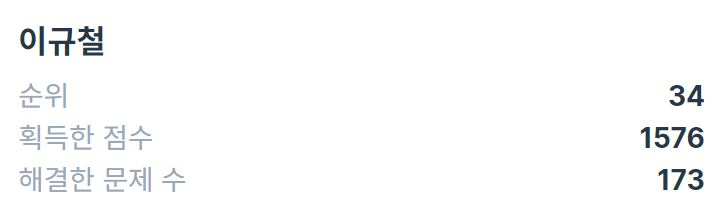
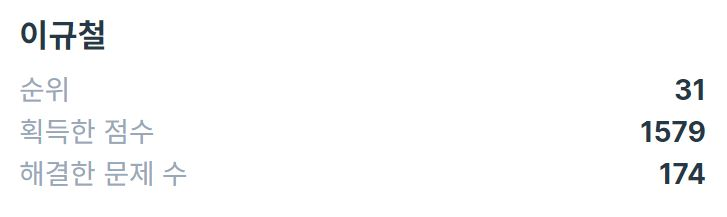
9/4 solve one dp problem

diff --git a/20_09_September/0904_12971_스티커모으기/Solution.py b/20_09_September/0904_12971_스티커모으기/Solution.py
@@ -1,0 +1,28 @@
+def solution(sticker):
+
+    if len(sticker) == 1:
+        return sticker[0]
+
+    dp1 = [0] * len(sticker)
+    dp2 = [0] * len(sticker)
+
+    dp1[0] = sticker[0]
+    dp1[1] = max(sticker[0], sticker[1])
+
+    dp2[1] = sticker[1]
+
+    for i in range(2, len(sticker) - 1):
+        dp1[i] = max(dp1[i - 1], dp1[i - 2] + sticker[i])
+
+    for i in range(2, len(sticker)):
+        dp2[i] = max(dp2[i - 1], dp2[i - 2] + sticker[i])
+
+    return max(dp1[-2], dp2[-1])
+
+print(solution([10]))
+print(solution([10, 15]))
+print(solution([15, 10]))
+print(solution([4, 2, 2, 3]))
+
+print(solution([14, 6, 5, 11, 3, 9, 2, 10]))
+print(solution([1, 3, 2, 5, 4]))

diff --git a/20_09_September/0904_12971_스티커모으기/readme.md b/20_09_September/0904_12971_스티커모으기/readme.md
@@ -1,0 +1,20 @@
+* 문제 링크 : https://programmers.co.kr/learn/courses/30/lessons/12971
+* 문제 유형 : DP
+* 시간 복잡도 : O(N)
+
+이전에 풀었던, 도둑질(DP) 문제와 흡사하다.  
+첫번째 스티커와 마지막 스티커가 겹치니,  
+첫번째 스티커를 넣는 방법, 안 넣는 방법 2개로 하여 최댓값을 반환
+
+
+# 언어별 특이사항
+
+- C++
+
+
+- Python
+
+
+- Java
+
+
